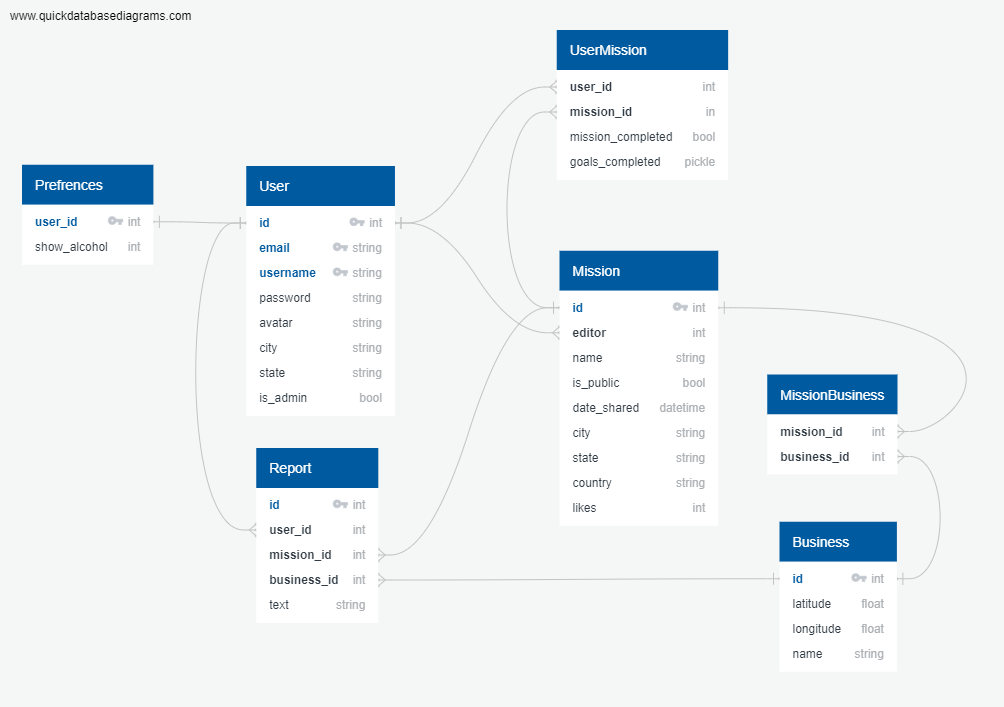
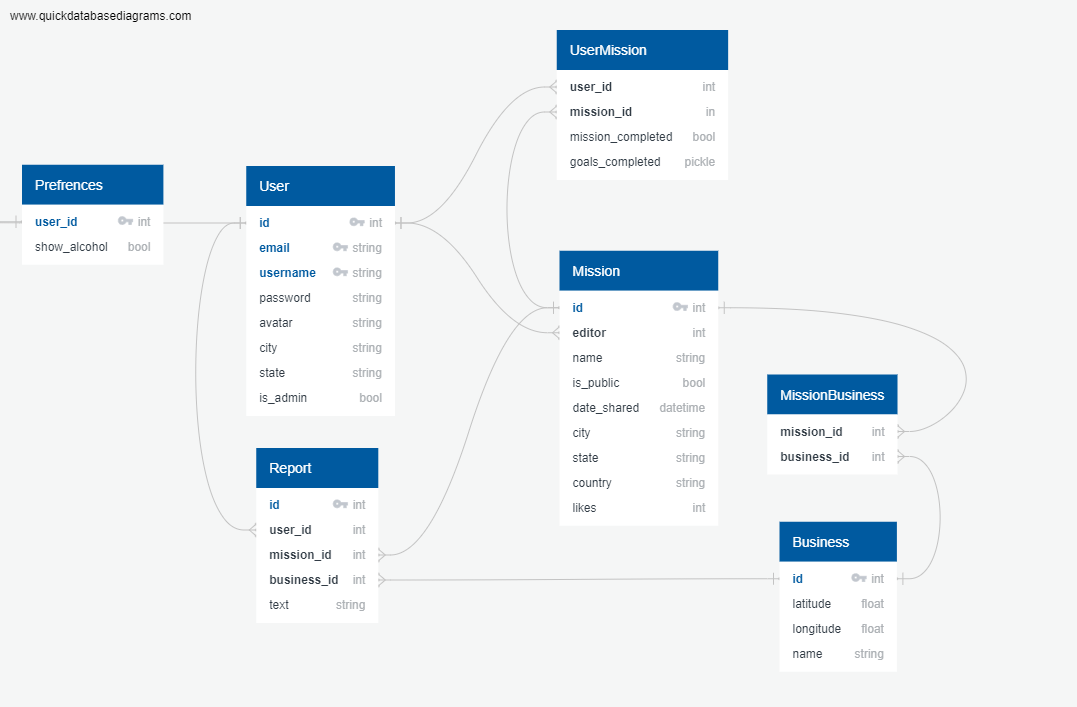
sentry capture test, models.create

diff --git a/app.py b/app.py
@@ -1,5 +1,8 @@
 """Restaurant discovery, food exploration web app."""
 
+from sentry_sdk.integrations.flask import FlaskIntegration
+from sentry_sdk import (capture_message, capture_exception,
+                        init as sentry_init)
 from flask import (  # noqa F401
     Flask, request, flash, make_response, Response, render_template, session,
     redirect, jsonify, abort, url_for)
@@ -7,24 +10,29 @@ from sqlalchemy.exc import IntegrityError
 from werkzeug.utils import secure_filename
 from werkzeug.exceptions import Unauthorized
 import requests
+import logging
 import os
-from models import (db, connect_db, User, Mission, UserMission,
-                    Prefrences, Business, Report, MissionBusiness)
+from models import (db, connect_db, User, Mission, UserMission,  # noqa F401
+                    Preferences, Business, Report, MissionBusiness)  # noqa F401
 from forms import AddProductForm, AddUserForm, LoginForm
 from static.py_modules.yelp_helper import (yelp_categories, first_letters,
-                                           parse_query_params)
+                                           parse_query_params, YELP_URL)
 Product, Category = None, None  # remove me
+
+
+logging.basicConfig(filename='gastronaut.log', level=logging.DEBUG,
+                    format='%(levelname)s:%(asctime)s:%(message)s')
 
 app = Flask(__name__)
 
 app.config['SQLALCHEMY_DATABASE_URI'] = os.environ.get(
     'DATABASE_URL', 'postgresql:///gastronaut')
 app.config['SQLALCHEMY_TRACK_MODIFICATIONS'] = False
-app.config["SECRET_KEY"] = os.environ.get('SECRET_KEY')
 
-API_KEY = os.environ.get('YELP_API_KEY')
 
-# if development server
+# Dev / Production setup differentiation:
+#
+# if development server enable debugging and load local keys.
 if not app.config["SECRET_KEY"]:
     from flask_debugtoolbar import DebugToolbarExtension
     from local_settings import API_KEY, SECRET_KEY
@@ -33,45 +41,36 @@ if not app.config["SECRET_KEY"]:
     app.config['SQLALCHEMY_ECHO'] = True
     app.config["DEBUG_TB_INTERCEPT_REDIRECTS"] = False
     debug = DebugToolbarExtension(app)
-# if production server
+#
+# if production server enable sentry and load environ variables.
 else:
-    import sentry_sdk
-    from sentry_sdk.integrations.flask import FlaskIntegration
-
-    sentry_sdk.init(
+    sentry_init(
         dsn="https://1faae11aaacf4e749bf6d9cc1ae5286a@o415488.ingest.sentry.io/5319947",  # NOQA E 501
         integrations=[FlaskIntegration()]
     )
-
+    app.config["SECRET_KEY"] = os.environ.get('SECRET_KEY')
+    API_KEY = os.environ.get('YELP_API_KEY')
+    debug = False
 
 connect_db(app)
 
-YELP_URL = 'https://api.yelp.com/v3'
+
+@app.route('/capture-test')
+def c_t():
+    capture_message('herro from flask!!l')
+    try:
+        raise ValueError
+    except ValueError as e:
+        capture_exception(e)
+
+    return 'testy mc tester nutz'
 
 
 @app.route("/")
 def index():
     """Home view."""
-    lat, lng = '', ''
-    # get IP address
-    ip_address_raw = request.environ.get('HTTP_X_FORWARDED_FOR',
-                                         request.remote_addr)
-    ip_address = ip_address_raw.split(',')[0].strip()
-    # IP geolocation
-    try:
-        res = requests.get(f'http://ipwhois.app/json/{ip_address}')
-        data = res.json()
-    except Exception as e:
-        # move to logging
-        print(e, "<<<<<<<<<<")
 
-    if data:
-        if data.get('message'):
-            # move to logging
-            print(data['message'])
-        # pass lng/lat data in hidden input
-        lat = data.get('latitude', '')
-        lng = data.get('longitude', '')
+    lat, lng = get_coords_from_IP_address(request)
 
     return render_template(
         'index.html',
@@ -189,22 +188,6 @@ def delete_user(username):
 #
 #
 #
-
-
-@app.route("/<int:id_>", methods=['GET', 'POST'])
-def index_id(id_):
-    """Home view."""
-
-    if request.method == "GET":
-        session['var'] = var = request.args.get(
-            'var')  # grab var from query string
-        info = some_function(var, id_)
-        return render_template("index.html", info=info)
-
-    if request.method == "POST":
-        form_val = request.form['expected_field']
-        some_function(form_val, id_)
-        return redirect(url_for('index'))
 
 
 @app.route("/product/add", methods=['GET', 'POST'])
@@ -363,20 +346,46 @@ def unauthorized(e):
 
 
 ############################
-""" Hypothetical Funtion """
+""" Helper Functions"""
 
 
-def some_function(*args, **kwargs):
-    return False
+def get_coords_from_IP_address(request):
+    """Call API and geolocate IP address."""
+
+    # get IP address
+    ip_address_raw = request.environ.get('HTTP_X_FORWARDED_FOR',
+                                         request.remote_addr)
+    # get first (leftmost) address for Heroku
+    ip_address = ip_address_raw.split(',')[0].strip()
+    # IP geolocation
+    try:
+        res = requests.get(f'http://ipwhois.app/json/{ip_address}')
+        data = res.json()
+    except Exception as e:
+        if debug:
+            logging.error(f'ipwhois API FAILURE: {e}')
+        else:
+            capture_exception(e)
+        return '', ''
+
+    lat = data.get('latitude', '')
+    lng = data.get('longitude', '')
+
+    if data.get('message'):
+        if debug:
+            logging.warning(data['message'])
+        else:
+            capture_message(data['message'])
+
+    return lat, lng
 
 
-# If dev environment.
+############################
+""" Dev environment alter Headers"""
+
 if not os.environ.get('SECRET_KEY'):
     ###########################################################################
     # Turn off all caching in Flask
-    #   (useful for dev; in production, this kind of stuff is typically
-    #   handled elsewhere)
-    #
     # https://stackoverflow.com/questions/34066804/disabling-caching-in-flask
 
     @app.after_request

diff --git a/models.py b/models.py
@@ -34,8 +34,6 @@ class User(db.Model):
 
     is_admin = db.Column(db.Boolean, default=False, nullable=False)
 
-    prefrences = db.relationship('Prefrences')
-
     missions = db.relationship('Mission', secondary='users_missions',
                                backref='users')
 
@@ -50,6 +48,12 @@ class User(db.Model):
     def image_url(self):
         """Return photo_url if set else default image"""
         return self.avatar or DEFAULT_USER_IMAGE
+
+    @property
+    def preferences(self):
+        """Return prefrences object associated with this user."""
+
+        return Preferences.query.filter_by(user_id=self.id).first()
 
     @classmethod
     def register(cls, email, username, password):
@@ -95,19 +99,19 @@ class User(db.Model):
         return out
 
 
-class Prefrences(db.Model):
-    """User Prefrences Model"""
+class Preferences(db.Model):
+    """User Preferences Model"""
 
-    __tablename__ = 'prefrences'
+    __tablename__ = 'preferences'
 
     user_id = db.Column(db.Integer, db.ForeignKey(User.id), primary_key=True)
 
-    show_alcohol = db.Column(db.Integer, nullable=False, default=1)
+    show_alcohol = db.Column(db.Boolean, nullable=False, default=True)
 
     @classmethod
     def create(cls, **kwargs):
         """
-        Return a new instance of Prefrences
+        Return a new instance of Preferences
         that has been added to session.
         """
         try:
@@ -218,6 +222,15 @@ class UserMission(db.Model):
     goals_completed = db.Column(db.PickleType, nullable=True)
 
     @classmethod
+    def get_user_mission(cls, user_id, mission_id):
+        """Return UserMission with given user_id/mission id."""
+
+        u_m = cls.query.filter_by(
+            user_id=user_id, mission_id=mission_id).first()
+
+        return u_m
+
+    @classmethod
     def create(cls, **kwargs):
         """
         Return a new instance of UserMission
@@ -225,6 +238,7 @@ class UserMission(db.Model):
         """
         try:
             u_m = cls(**kwargs)
+
         except Exception:
             return False
 

diff --git a/seed.py b/seed.py
@@ -1,5 +1,5 @@
 from models import (
-    db, User, Prefrences, Mission, UserMission,
+    db, User, Preferences, Mission, UserMission,
     Business, MissionBusiness, Report
 )
 from app import app  # noqa F401
@@ -18,18 +18,38 @@ db.session.commit()
 
 b1 = Business.create(name='Cuisine of Nepal', longitude=-122.42318,
                      latitude=37.74097, id='iUockw0CUssKZLyoGJYEXA')
+b2 = Business.create(name='Little Nepal', longitude=-122.41361,
+                     latitude=37.7391, id='Kx1WExNj5ogaFe0cyg9L6A')
+b3 = Business.create(name='Mission Curry House', longitude=-122.41928,
+                     latitude=37.75796, id='uj2GUGSIRlrLDr5iQKvUfQ')
 
 m1 = Mission.create(editor=user1.id, name='Around the World in Eight Days',
                     city='San Francisco', state='California', country='USA')
+m2 = Mission.create(editor=user1.id, name='Food Truck Grand Tour',
+                    city='San Francisco', state='California', country='USA')
+m3 = Mission.create(editor=user1.id, name='I like cheese.',
+                    city='San Francisco', state='California', country='USA')
+
+p1 = Preferences.create(user_id=user1.id)
 
 db.session.commit()
 
 
-m1.businesses.append(b1)
+m1.businesses.extend([b1, b2, b3])
 
-user1.missions.append(m1)
+m2.businesses.extend([b2, b3])
+
+m3.businesses.extend([b1, b3])
+
+user1.missions.extend([m1, m2, m3])
+user2.missions.extend([m1])
+user3.missions.extend([m2, m3])
 
 r1 = Report.create(user_id=user1.id, business_id='iUockw0CUssKZLyoGJYEXA',
                    text='Super mouth happy fun time!')
+r2 = Report.create(user_id=user2.id, business_id='iUockw0CUssKZLyoGJYEXA',
+                   text='Best dern nipplease fud i eva had!')
+r3 = Report.create(user_id=user3.id, business_id='iUockw0CUssKZLyoGJYEXA',
+                   text='The chicken curry was devine!')
 
 db.session.commit()

diff --git a/static/py_modules/yelp_helper.py b/static/py_modules/yelp_helper.py
@@ -4,26 +4,30 @@ categories first letter list.'''
 from datetime import datetime, timezone
 
 
+YELP_URL = 'https://api.yelp.com/v3'
+
+
 def parse_query_params(multi_dict):
     """Function to convert request parameters into
         state ready to be passed to Yelp.
 
         Args:
             multi_dict (multi_dict): request.args data
-        """
+    """
     out, price, attributes = {}, '', ''
+
     for key, value in multi_dict.items():
-        # make price string
+        # make price string from any price parameters.
         if key.startswith('price'):
             price += f'{value},'
-        # make attributes string
+        # make attributes string from any attribute parameters.
         elif key in [
                 'hot_and_new', 'reservation', 'cashback', 'deals',
                 'gender_neutral_restrooms', 'open_to_all',
                 'wheelchair_accessible'
         ]:
             attributes += f'{key},'
-        # convert open at datetime to utc timestamp
+        # convert open at datetime to utc timestamp if present.
         elif key == 'open_at':
             date = datetime.fromisoformat(value)
             utc_timestamp = date.replace(tzinfo=timezone.utc).timestamp()
@@ -31,11 +35,13 @@ def parse_query_params(multi_dict):
         else:
             if value:
                 out[key] = value
-    # if price, attributes - remove trailing comma.
+
+    # if price, attribute strings - remove trailing comma and set key/ value.
     if price:
         out['price'] = price.strip(',')
     if attributes:
         out['attributes'] = attributes.strip(',')
+
     # if location given remove lng/lat for explict location use
     if out.get('location'):
         if out.get('latitude'):
